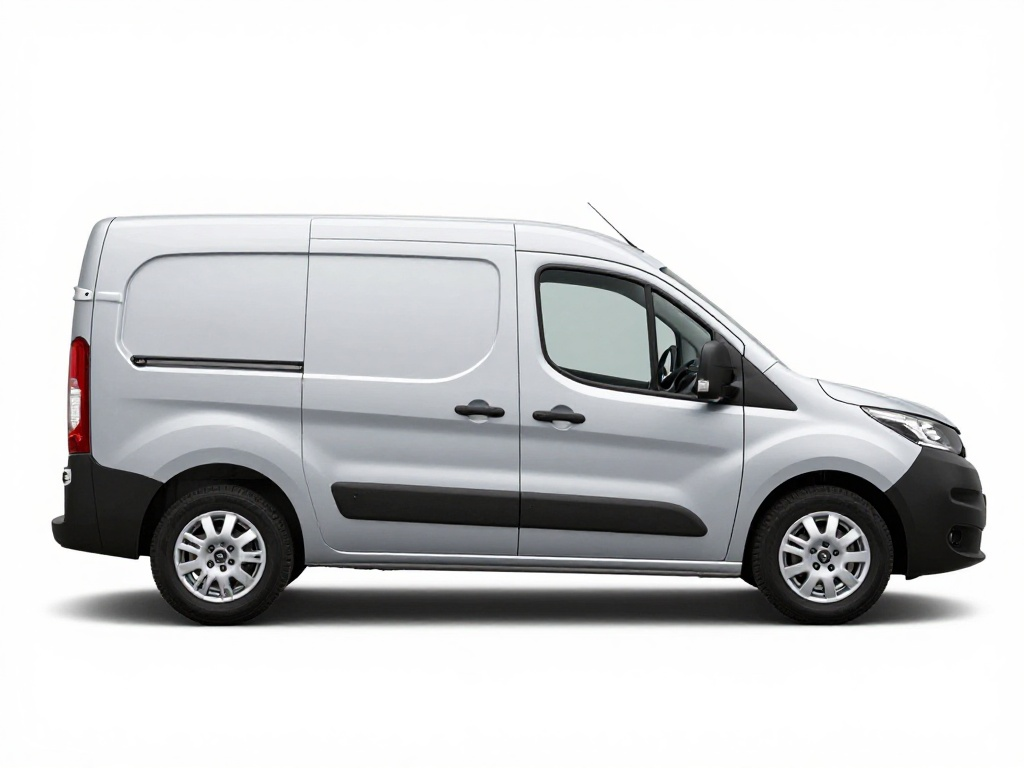
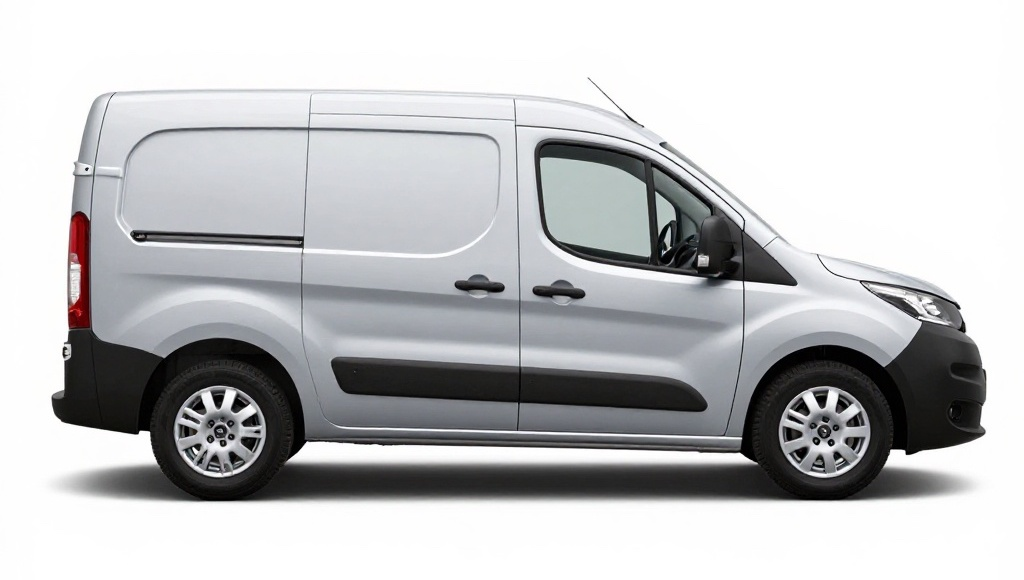
12

diff --git a/style.css b/style.css
@@ -85,10 +85,10 @@ main { max-width: 1200px; margin: 0 auto; padding: 20px 24px; }
 .section-title { font-size: 11px; font-weight: 700; letter-spacing: 0.08em; text-transform: uppercase; color: var(--text-3); margin-bottom: 8px; margin-top: 4px; }
 
 /* VEHICLE IMAGES */
-.vimg { width: 100%; height: 100px; border-radius: 6px; overflow: hidden; background: #f8f8f8; }
-.vimg img { width: 100%; height: 100%; object-fit: cover; object-position: center 65%; display: block; }
-.scard-img { width: 100%; height: 110px; overflow: hidden; background: #f8f8f8; }
-.scard-img img { width: 100%; height: 100%; object-fit: cover; object-position: center 50%; display: block; }
+.vimg { width: 100%; height: 90px; border-radius: 6px; overflow: hidden; background: #ffffff; display: flex; align-items: center; justify-content: center; }
+.vimg img { width: 100%; height: 100%; object-fit: contain; object-position: center; display: block; padding: 4px; }
+.scard-img { width: 100%; height: 120px; overflow: hidden; background: #ffffff; display: flex; align-items: center; justify-content: center; }
+.scard-img img { width: 100%; height: 200%; object-fit: contain; object-position: center; display: block; padding: 6px; }
 
 /* ── FLEET GRID (NR1) ── */
 .fleet-grid { display: grid; grid-template-columns: repeat(6, 1fr); gap: 10px; margin-bottom: 16px; }
